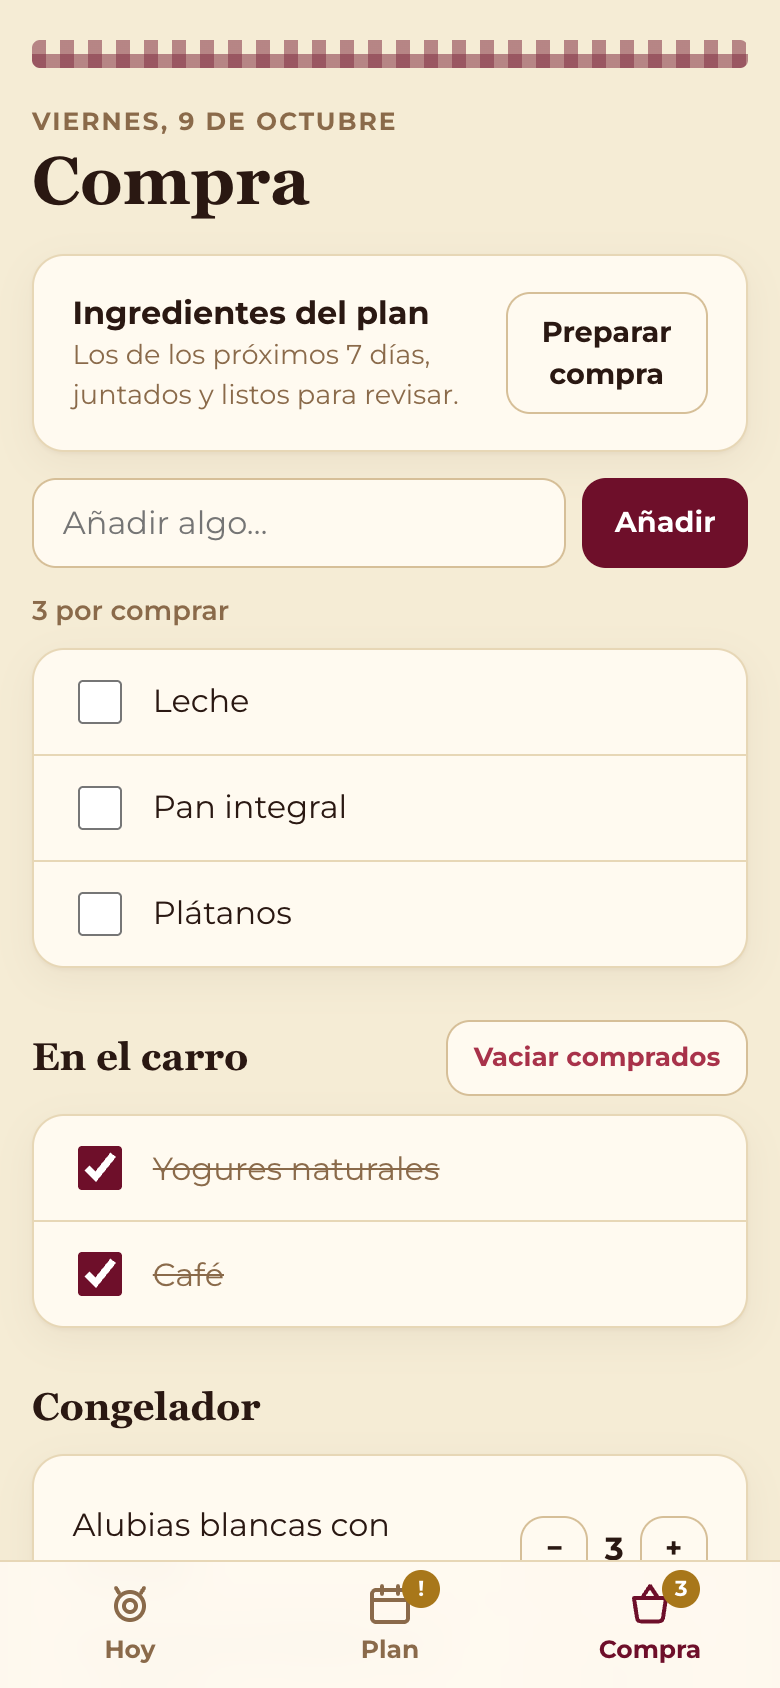
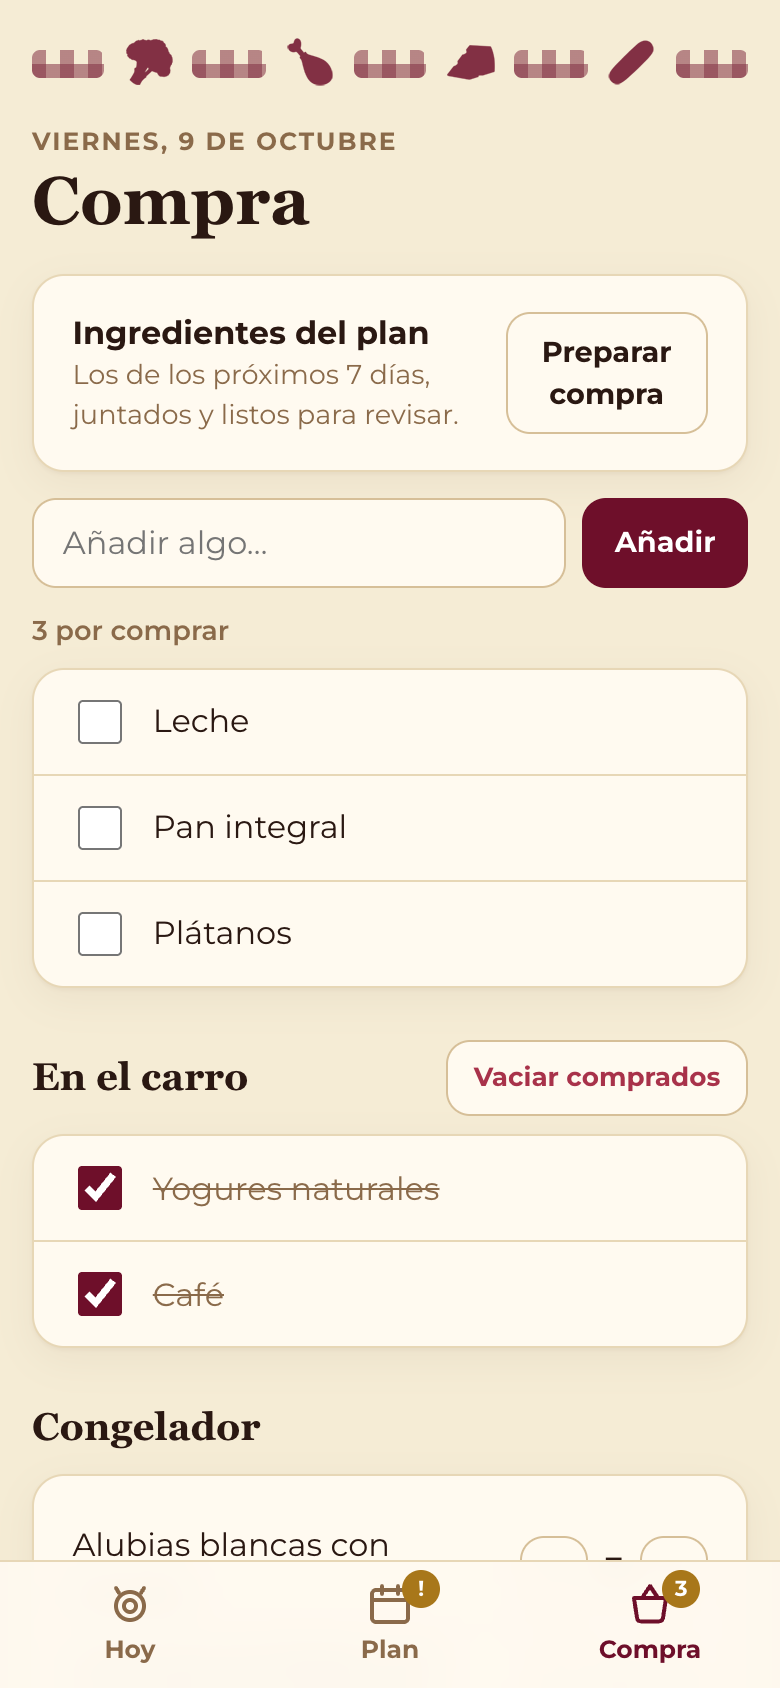
Ribete de mantel arriba y abajo: vichy alternado con emojis de comida en silueta
Las capturas del README se rehacen con el ribete nuevo, y demo/capturas.mjs
hace ya también la de escritorio.

Changed region(s): [[0.0308, 0.0, 0.9846, 0.9242]]

diff --git a/panel/static/index.html b/panel/static/index.html
@@ -39,11 +39,16 @@
   main{max-width:640px;margin:0 auto;padding:1.25rem 1rem calc(6rem + env(safe-area-inset-bottom))}
 
   /* --- Cabecera --------------------------------------------------------------- */
-  /* Mantel de vichy: dos bandas cruzadas semitransparentes del acento. */
-  .franja{height:14px;border-radius:4px;margin-bottom:1.1rem;opacity:.85;
+  /* Ribete de mantel: tramos de vichy (dos bandas cruzadas semitransparentes del acento)
+     alternados con emojis de comida en silueta del mismo color (texto transparente +
+     text-shadow). Arriba en la cabecera y abajo cerrando la página. */
+  .franja{display:flex;align-items:center;gap:10px;margin-bottom:1.1rem;opacity:.85}
+  .franja i{flex:1;height:14px;border-radius:4px;
     background:
       repeating-linear-gradient(90deg,color-mix(in srgb,var(--accent) 55%,transparent) 0 7px,transparent 7px 14px),
       repeating-linear-gradient(0deg,color-mix(in srgb,var(--accent) 55%,transparent) 0 7px,transparent 7px 14px)}
+  .franja b{font-size:24px;font-weight:400;line-height:1;color:transparent;text-shadow:0 0 0 var(--accent)}
+  .franja.pie{margin:1.6rem 0 0}
   .fecha{color:var(--muted);font-size:.78rem;font-weight:700;letter-spacing:.08em;text-transform:uppercase}
   h1{font-family:var(--serif);font-size:2.1rem;line-height:1.1;margin:.15rem 0 1.1rem}
   h2{font-family:var(--serif);font-size:1.2rem;margin:1.6rem 0 .6rem}
@@ -232,7 +237,7 @@
   @media (min-width:1024px){
     main{max-width:1440px;padding:2rem 2rem 3rem;display:grid;gap:0 1.6rem;align-items:start;
       grid-template-columns:minmax(0,1.15fr) minmax(0,1fr) minmax(0,.9fr)}
-    .cab{grid-column:1 / -1}
+    .cab,.franja.pie{grid-column:1 / -1}
     .col[hidden]{display:block}
     .col-h{display:block;font-family:var(--serif);font-size:1.3rem;margin:0 0 .8rem;padding-bottom:.5rem;
       border-bottom:1px solid var(--line2)}
@@ -249,7 +254,7 @@
 <body>
 <main>
   <header class="cab">
-    <div class="franja"></div>
+    <div class="franja" aria-hidden="true"><i></i><b>🥦</b><i></i><b>🍗</b><i></i><b>🧀</b><i></i><b>🥖</b><i></i></div>
     <div class="fecha" id="fecha"></div>
     <h1><span class="solo-movil" id="titulo">Hoy</span><span class="solo-escritorio">Comidas</span></h1>
   </header>
@@ -257,6 +262,7 @@
     <section id="v-hoy"><div class="vacio">Cargando…</div></section></div>
   <div class="col" id="c-semana" hidden><h2 class="col-h">Plan</h2><section id="v-semana"></section></div>
   <div class="col" id="c-compra" hidden><h2 class="col-h">Compra</h2><section id="v-compra"></section></div>
+  <div class="franja pie" aria-hidden="true"><i></i><b>🥕</b><i></i><b>🐟</b><i></i><b>🧄</b><i></i><b>🌶</b><i></i></div>
 </main>
 
 <nav class="tabs"><div class="in">

diff --git a/README.md b/README.md
@@ -137,7 +137,7 @@ Para probar el panel sin Mealie ni Home Assistant, con recetas inventadas, en ht
 .venv/bin/python -m demo.servidor
 ```
 
-Con la demo en marcha, `node demo/capturas.mjs docs/capturas http://127.0.0.1:8765` rehace las capturas de móvil
+Con la demo en marcha, `node demo/capturas.mjs docs/capturas http://127.0.0.1:8765` rehace las capturas
 (necesita Chrome).
 
 ## Despliegue
